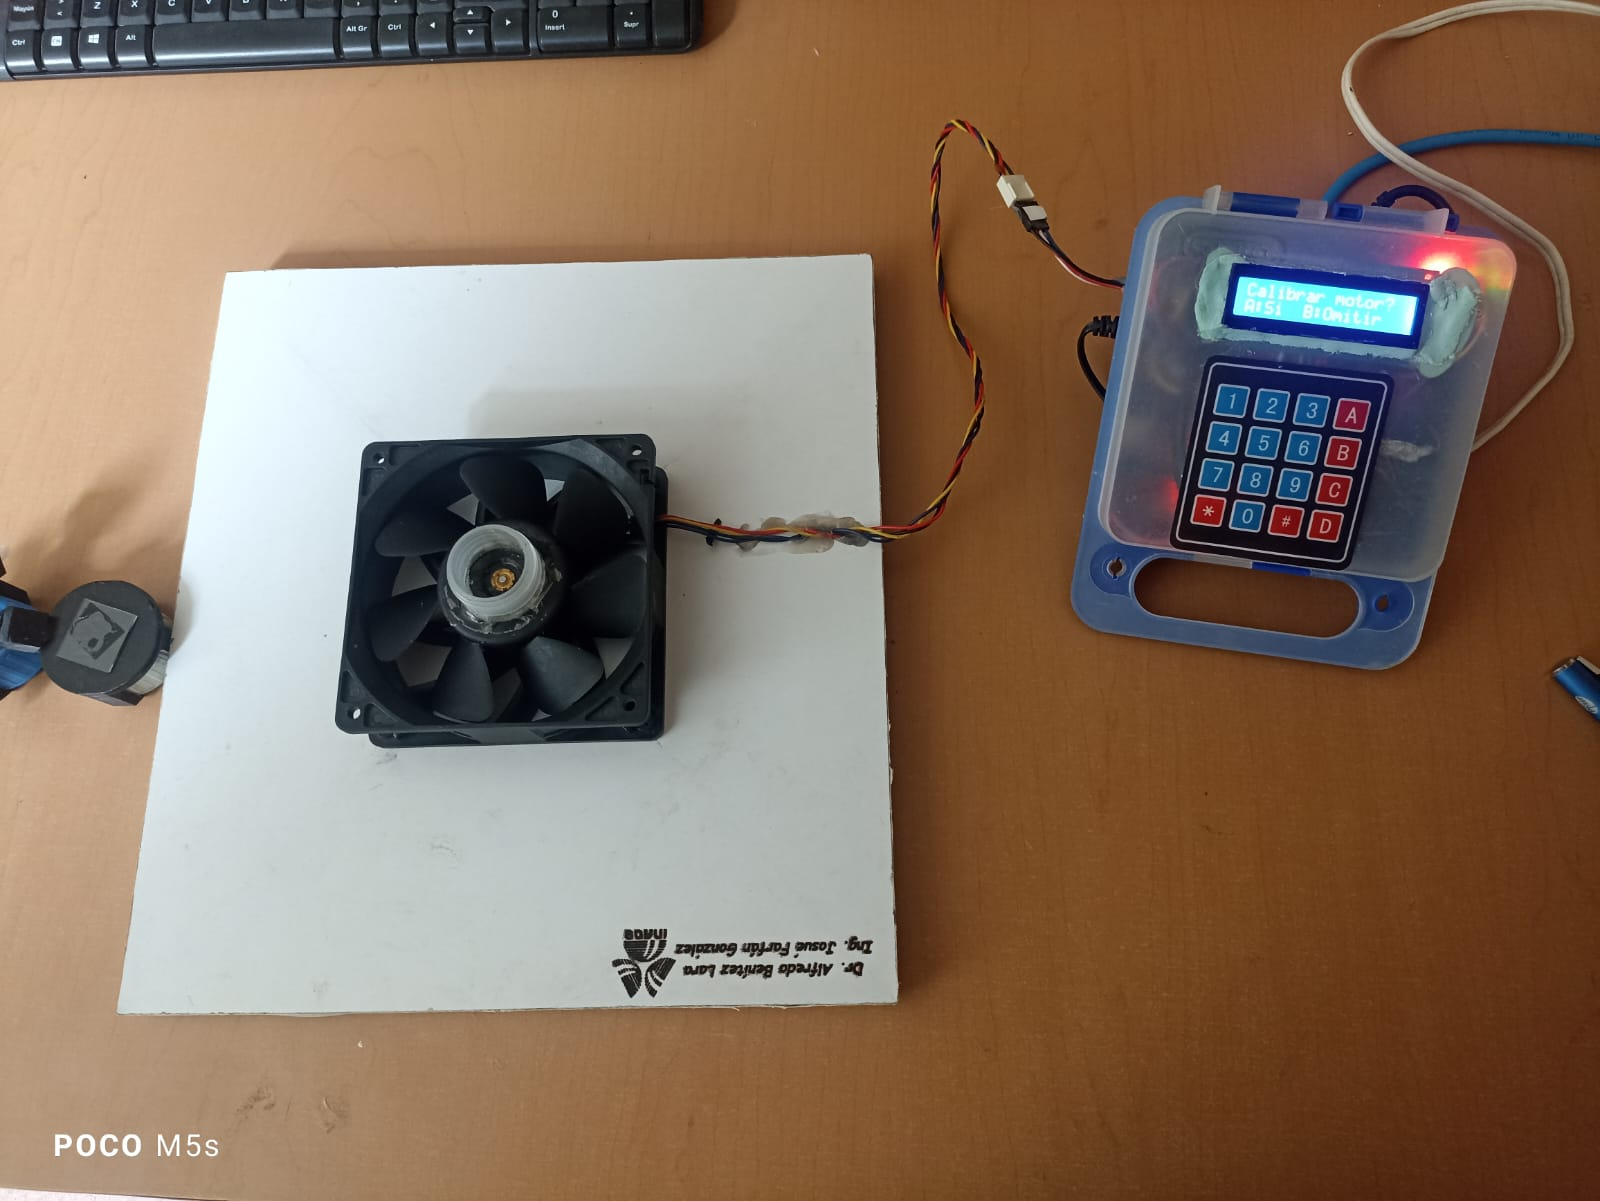
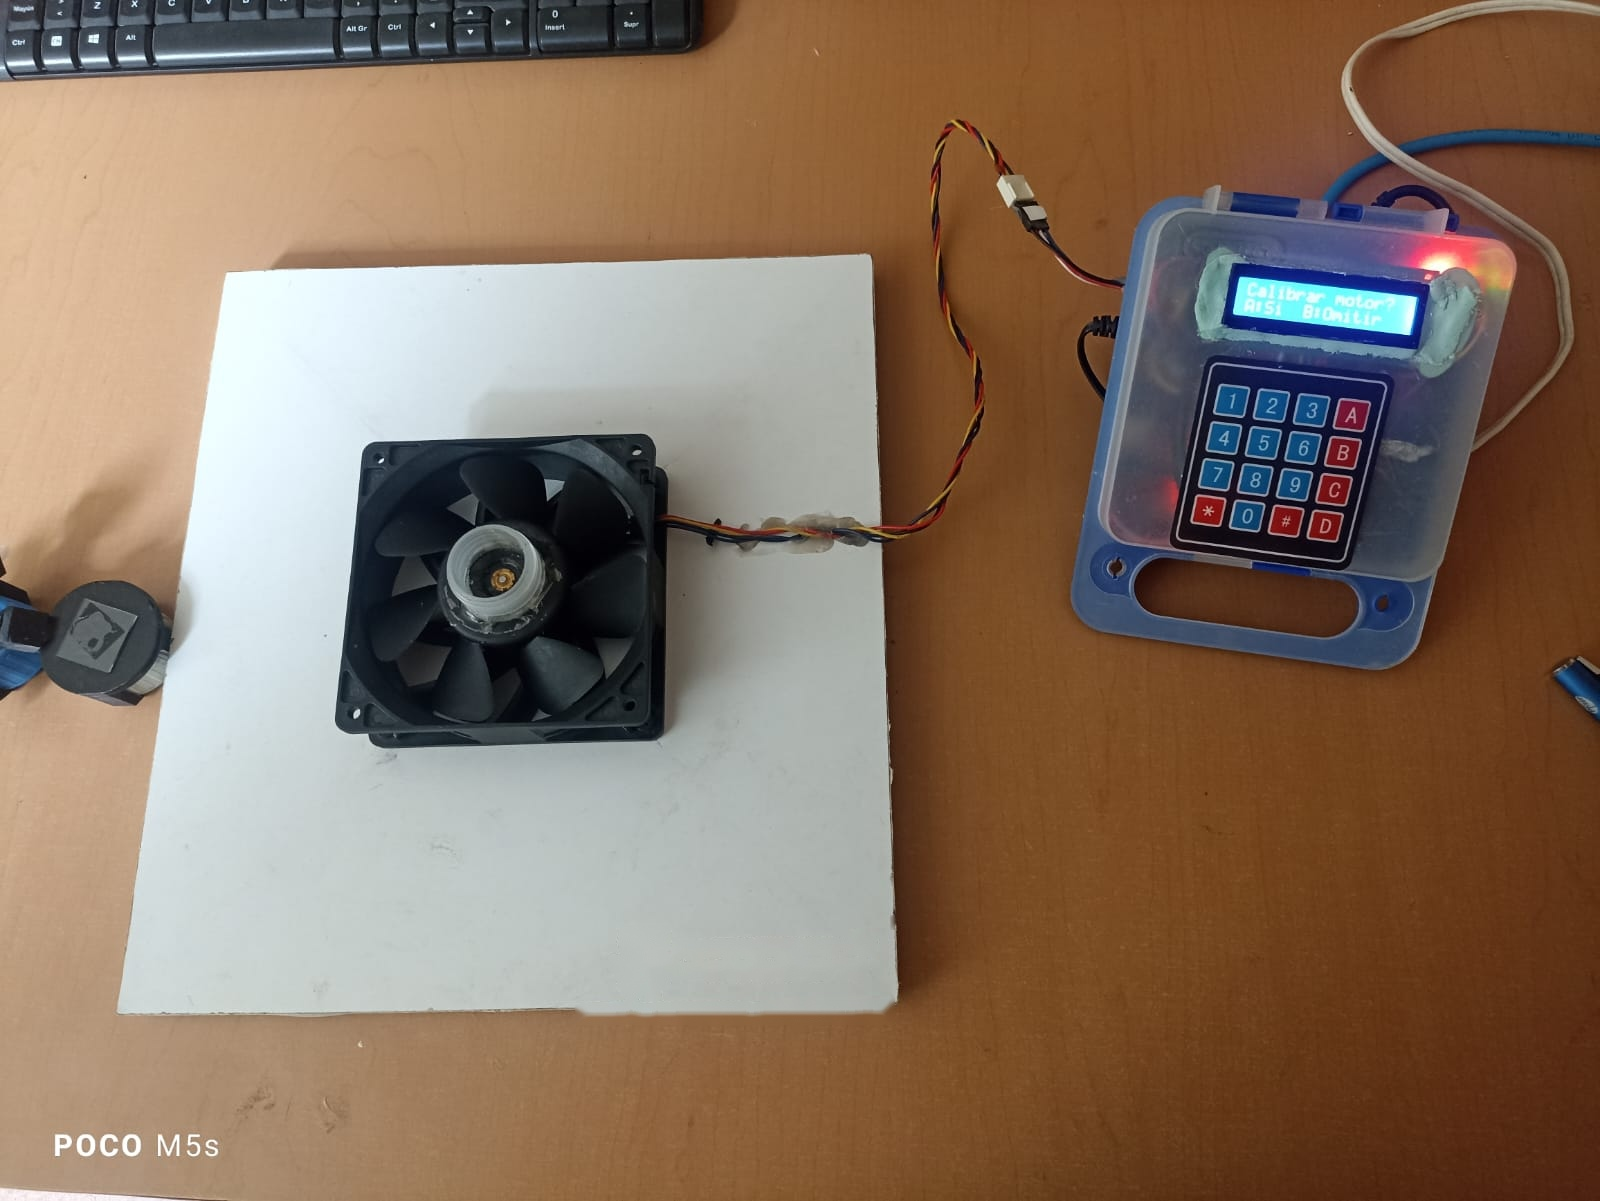
feat: Censurar nombres en foto y actualizar proyecto de consola modular de ventilador con Arduino Mega

Changed region(s): [[0.3438, 0.7702, 0.5625, 0.8626]]

diff --git a/script.js b/script.js
@@ -91,22 +91,22 @@ const projectsData = [
     ]
   },
   {
-    id: "inaoe-tacometro-calibracion",
-    title: "Banco Portátil de Calibración y Tacómetro Digital Industrial",
+    id: "control-velocidad-ventilador-mcu",
+    title: "Consola Modular de Control de Velocidad y Tacómetro para Ventilador de Alto Rendimiento",
     category: "embedded",
-    categoryLabel: "Sistemas Embebidos & IoT",
-    tag: "INAOE - Investigación",
+    categoryLabel: "Sistemas Embebidos & Control",
+    tag: "Instrumentación & Control",
     mediaType: "image",
     mediaUrl: "WhatsApp Image 2026-09-22 at 4.40.52 PM.jpeg",
     secondaryMedia: [],
-    tags: ["INAOE", "Arduino / MCU", "LCD 16x2 I2C", "Teclado Matricial 4x4", "Sensor Óptico", "Metrología"],
-    shortDesc: "Instrumento portátil desarrollado en INAOE para calibración y caracterización dinámica de motores y ventiladores con interfaz de usuario guiada.",
-    whatIs: "Sistema de medición e instrumentación electrónica desarrollado en conjunto con el Dr. Alfredo Benítez Lara en el INAOE. Diseñado para pruebas metrológicas de velocidad de giro en ventiladores de disipación y motores industriales.",
-    whatIDid: "Diseño e integración de un gabinete portátil con pantalla LCD retroiluminada y teclado matricial de 16 teclas. Programación de menú interactivo («Calibrar motor? A:Si B:Omitir») para rutinas de auto-cero, muestreo de pulsos ópticos por tacómetro infrarrojo y cálculo estequiométrico de RPM con mínimo margen de error.",
+    tags: ["Arduino Mega", "Sensor Efecto Hall", "Ventilador de Servidor", "Control PWM", "Display LCD 16x2", "Teclado Matricial 4x4", "Consola Portátil Modular"],
+    shortDesc: "Consola portátil modular gobernada por Arduino Mega para el control de velocidad en lazo cerrado y calibración de ventilador de alto flujo mediante sensor Hall.",
+    whatIs: "Instrumento electrónico modular diseñado para el accionamiento, calibración de velocidad y monitoreo en tiempo real de RPM en ventiladores de alta velocidad y alto flujo (servidor / cómputo). Su arquitectura compacta permite operar como una unidad autónoma con interfaz de usuario integrada para ajuste de consigna, perfiles de giro y rutinas de calibración.",
+    whatIDid: "Desarrollo del hardware y programación del firmware en microcontrolador Arduino Mega montado en un gabinete portátil con asa. Integración de la etapa de modulación PWM y lectura de los trenes de pulsos provenientes del sensor de efecto Hall interno del ventilador para el cálculo de RPM instantáneas mediante interrupciones de hardware. Programación de un menú interactivo en pantalla LCD 16x2 comandado por teclado matricial 4x4 («Calibrar motor? A:Si B:Omitir») para ejecución de pruebas dinámicas, auto-cero y control de revoluciones.",
     highlights: [
-      "Interfaz HMI autónoma que no requiere computadora externa para operar en campo",
-      "Filtro digital contra rebotes ópticos y compensación de ruido electromagnético",
-      "Desarrollado y acreditado bajo el sello de investigación de INAOE"
+      "Lectura precisa de frecuencia y RPM en tiempo real aprovechando el sensor de efecto Hall integrado",
+      "Consola portátil autónoma con interfaz de operación basada en display LCD 16x2 y teclado matricial 4x4",
+      "Rutina interactiva de calibración y control de modulación PWM desarrollado en Arduino Mega"
     ]
   },
   {
